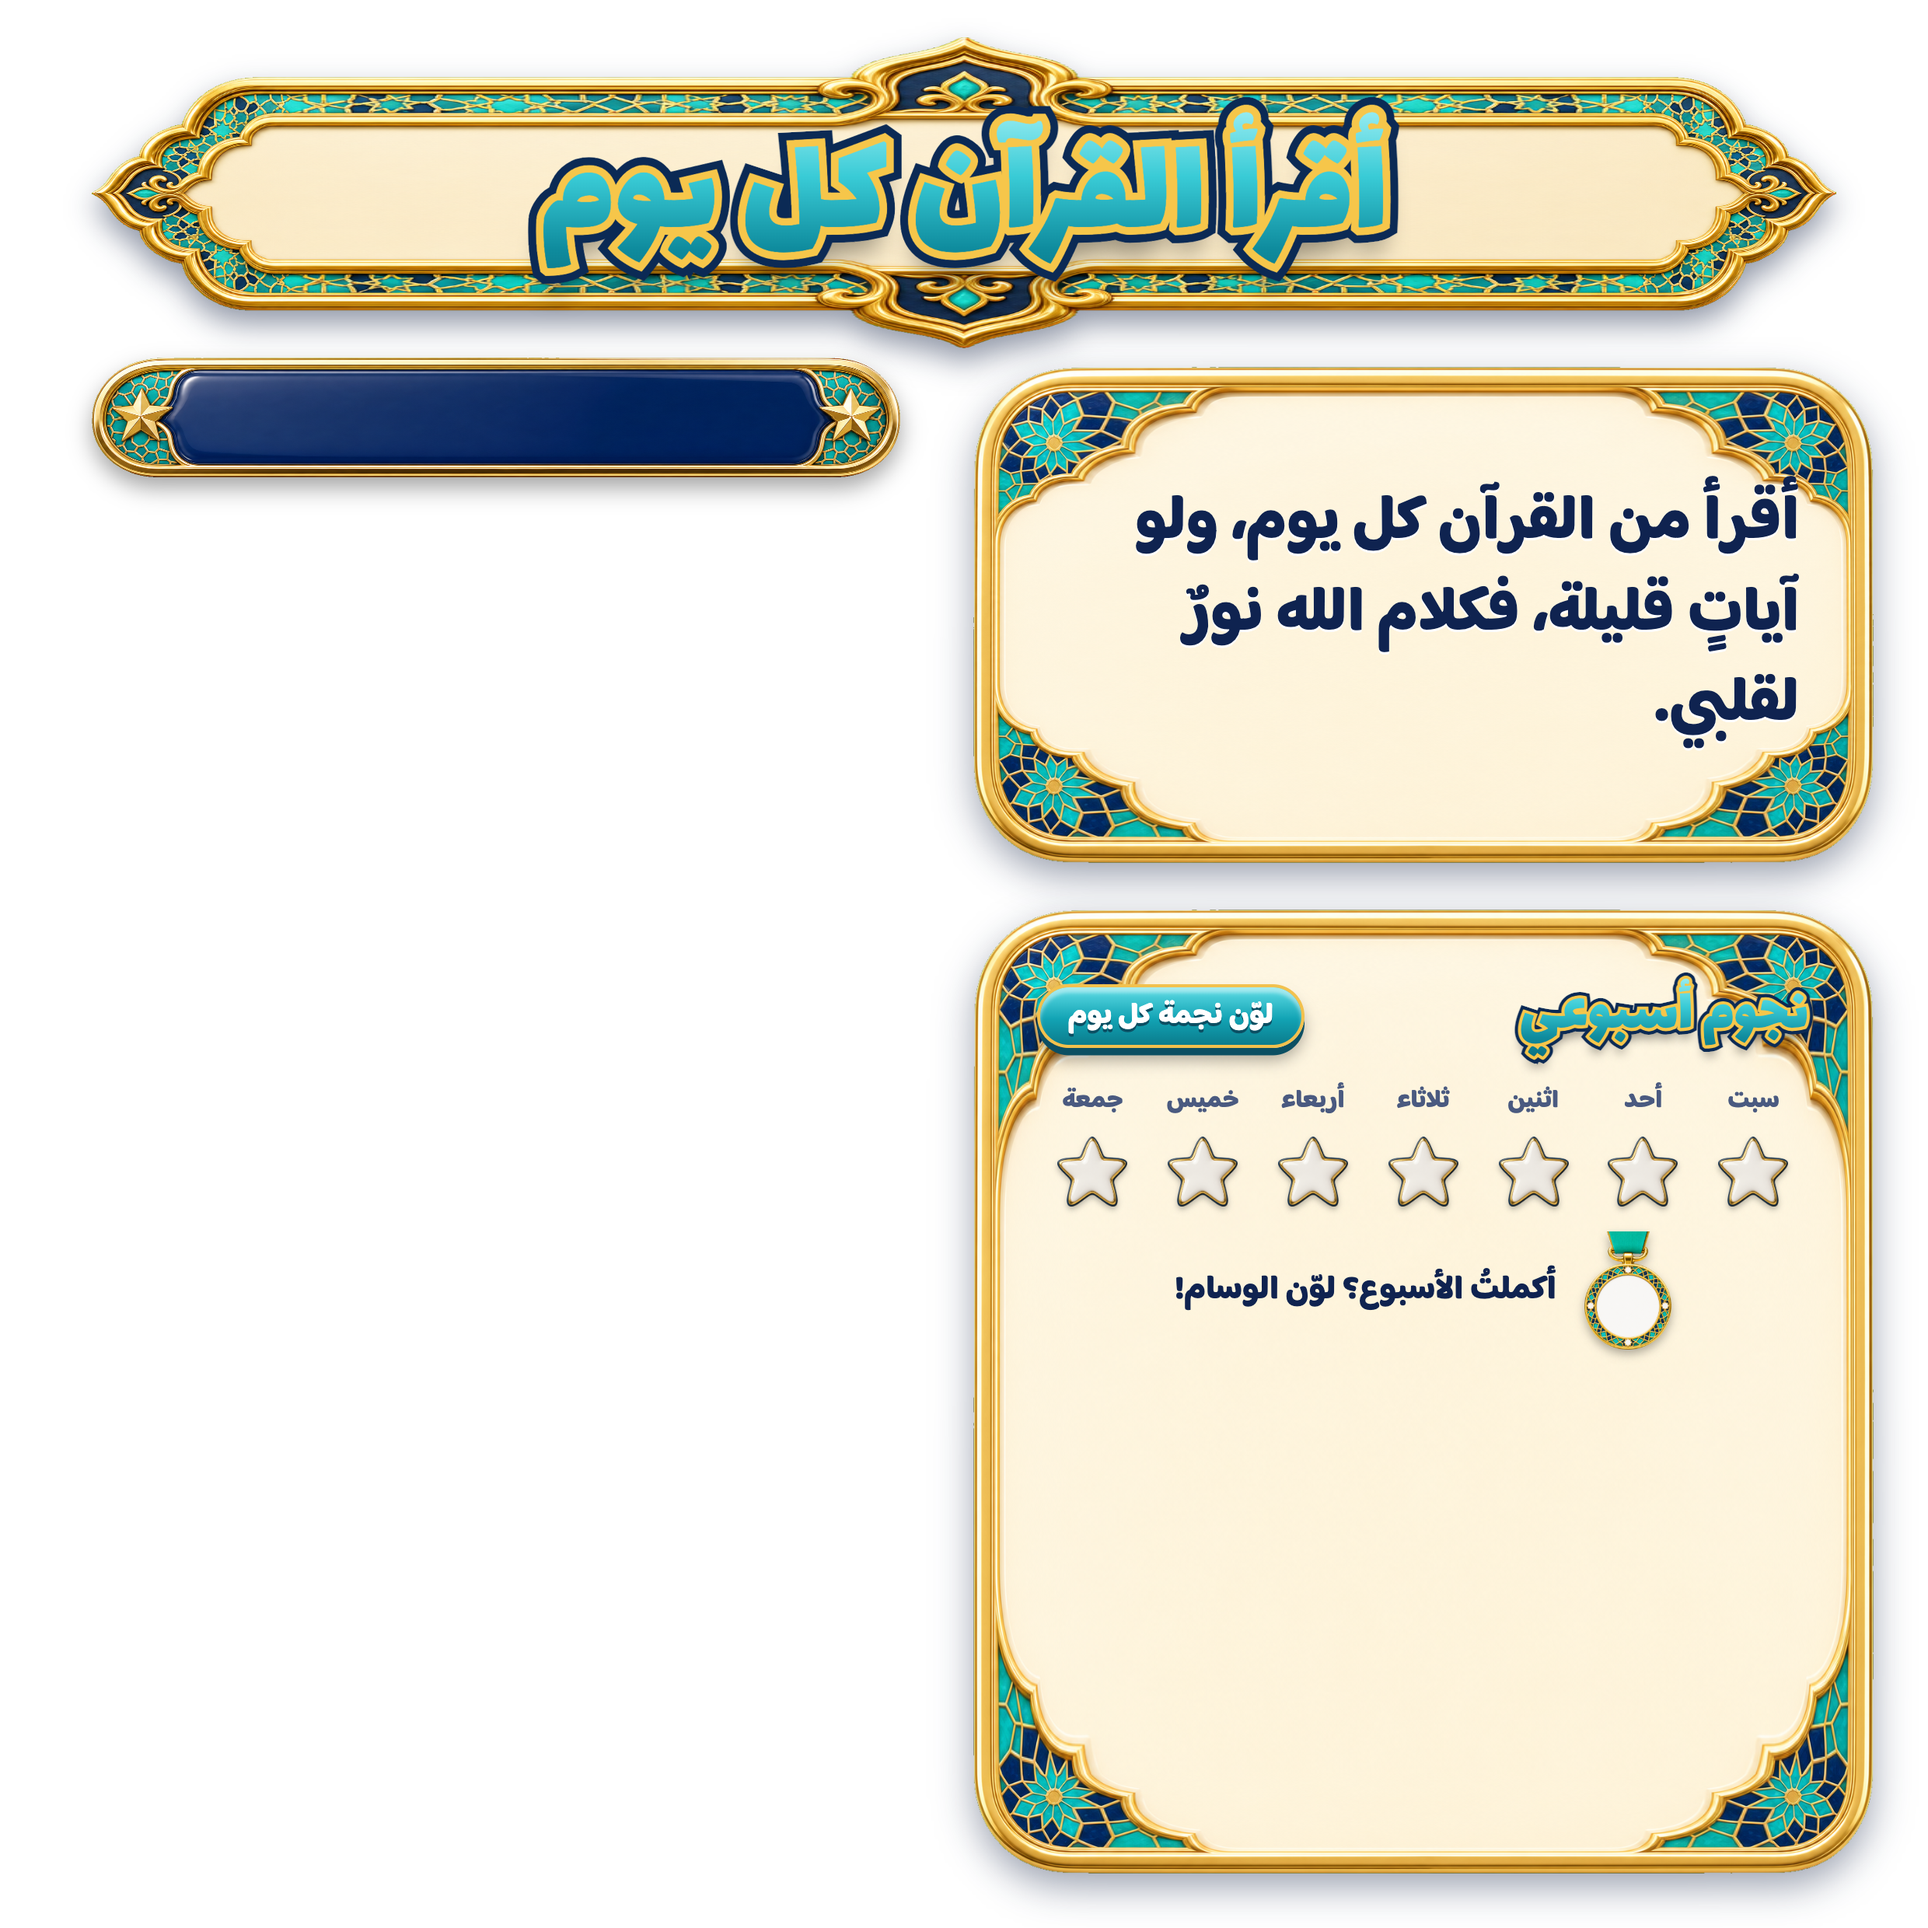
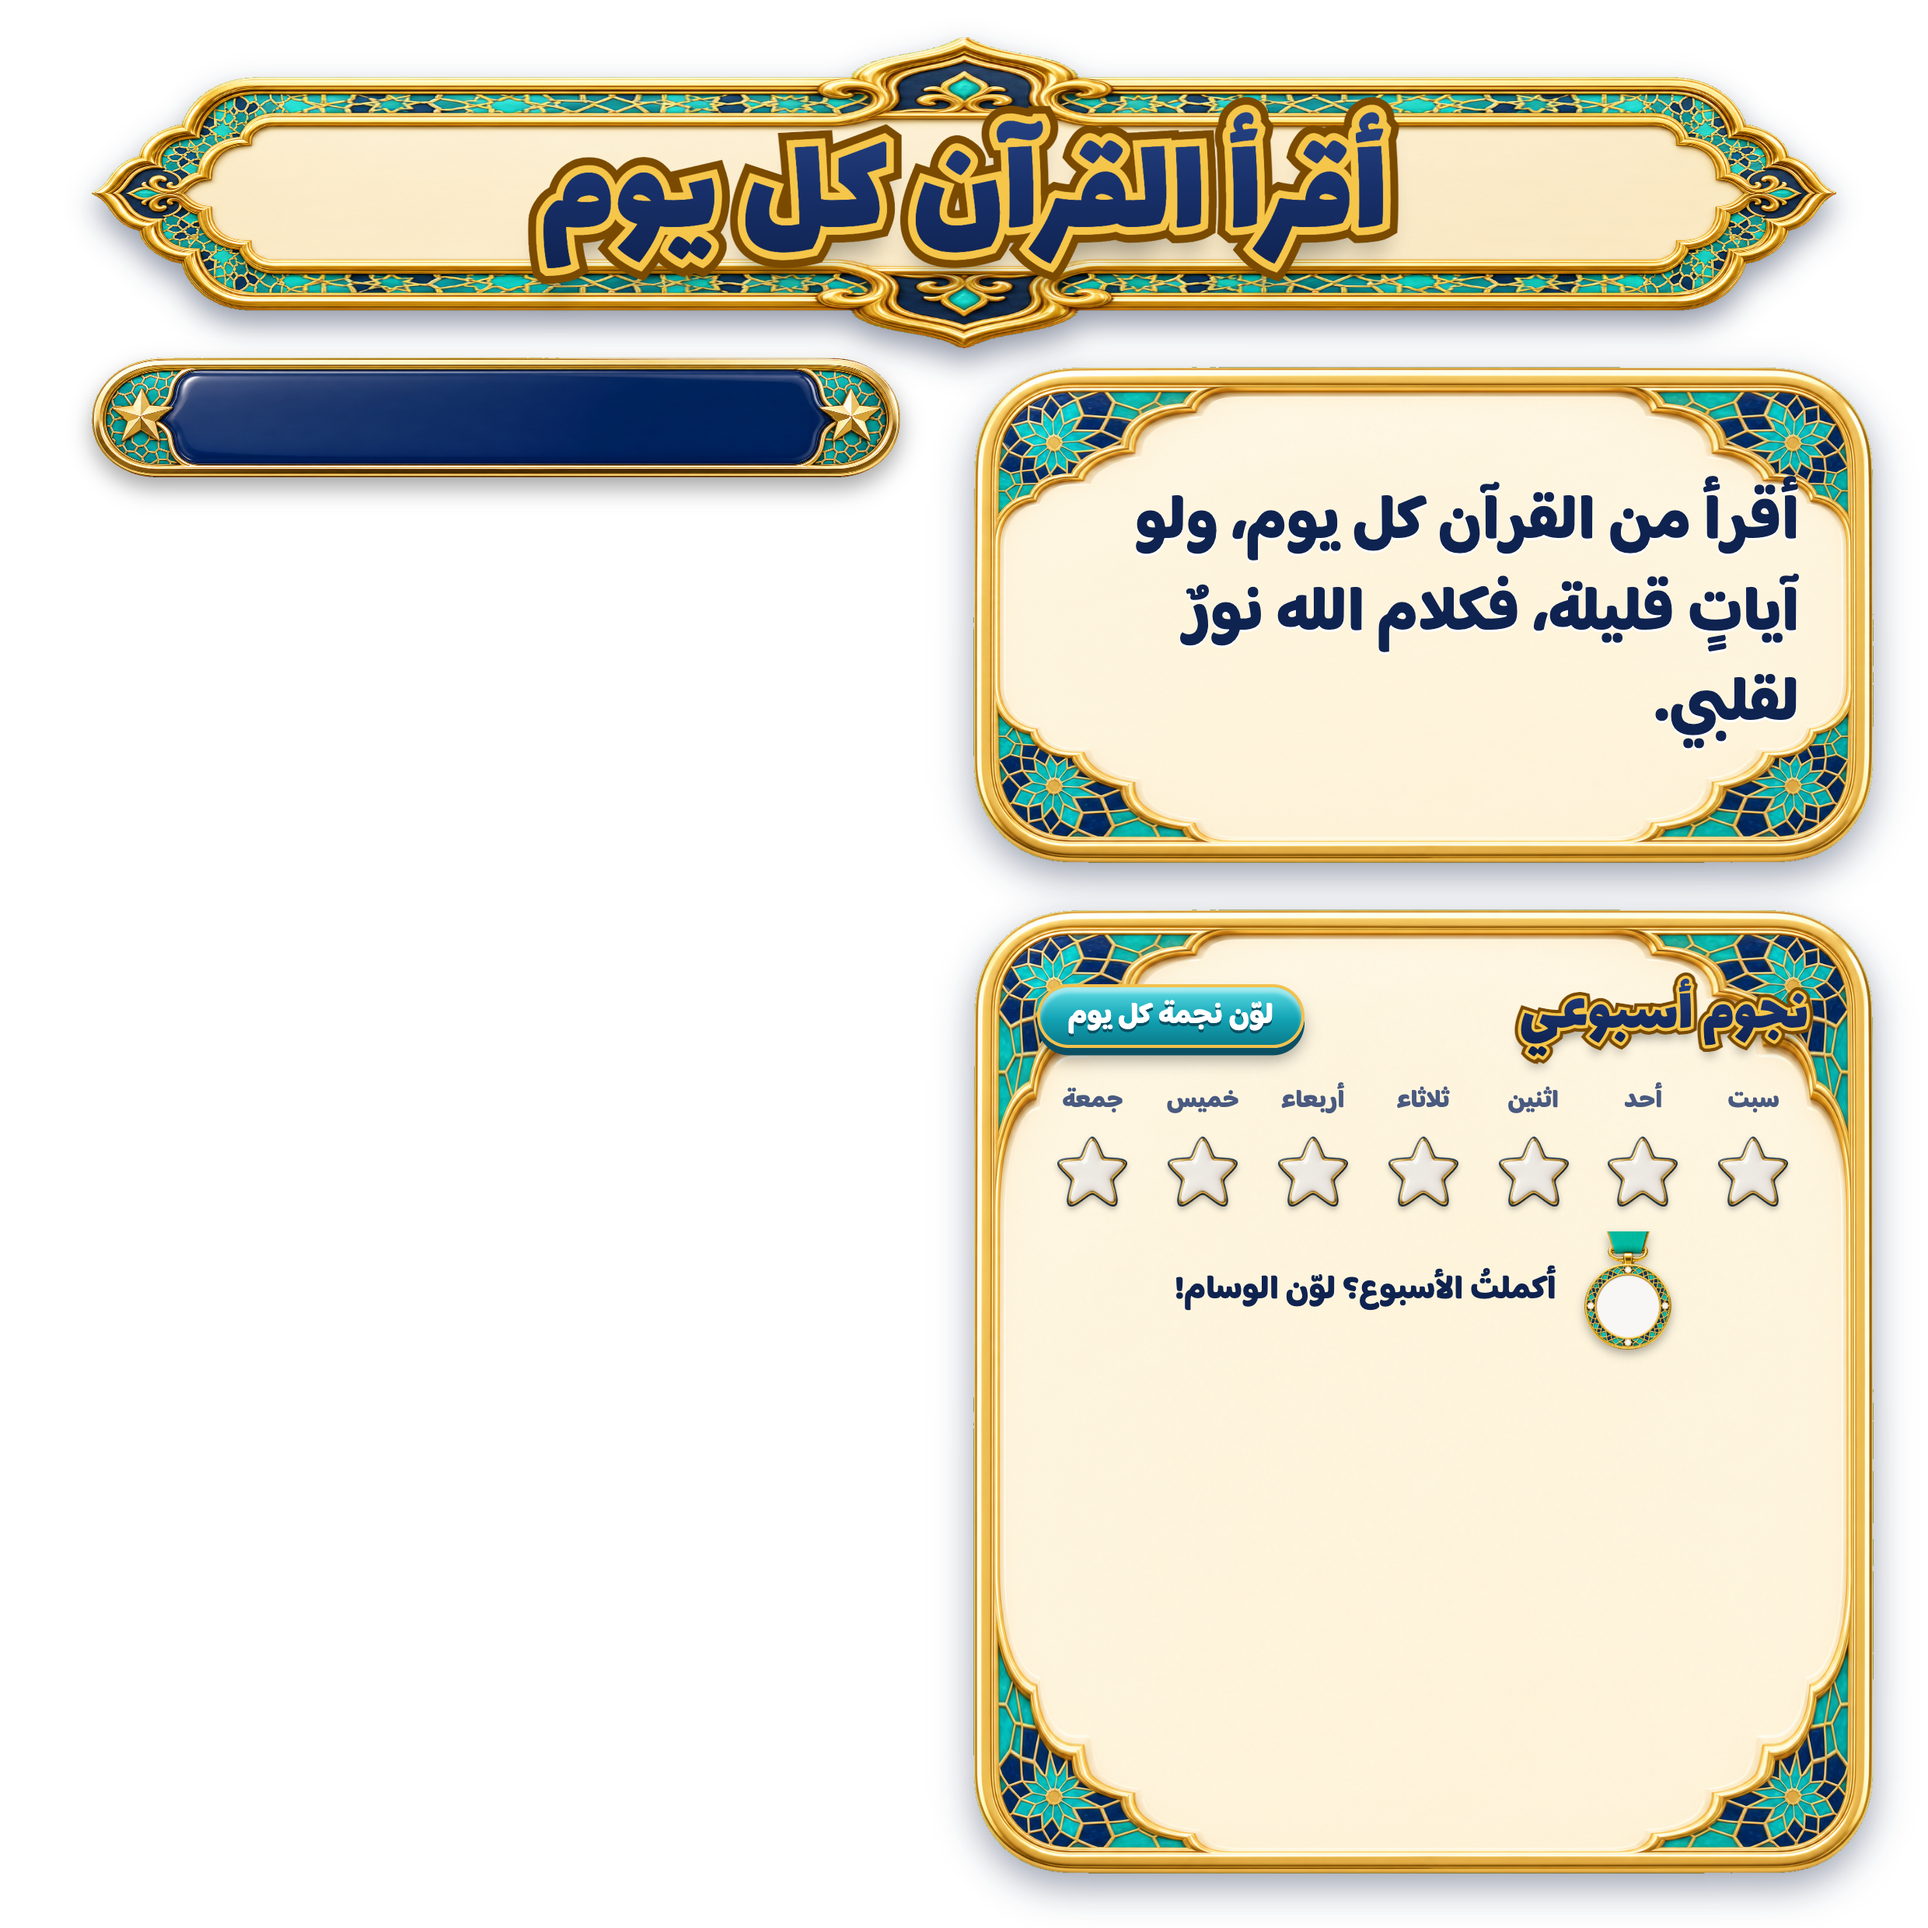
High-contrast navy 3D lettering, roomier cover subtitle

Changed region(s): [[0.2794, 0.031, 0.7452, 0.1552], [0.7762, 0.4968, 0.9315, 0.5589]]

diff --git a/design/nahjali-v1/pages.html b/design/nahjali-v1/pages.html
@@ -28,16 +28,16 @@
   /* 3D lettering in the logo style: turquoise face, gold rim, white edge, navy depth and soft shadow */
   .t3d { position: relative; display: inline-block; isolation: isolate; font-family: "Lalezar"; white-space: nowrap; }
   .t3d::before, .t3d::after { content: attr(data-text); position: absolute; inset: 0; }
-  .t3d::before { z-index: -2; color: #0b2a55; -webkit-text-stroke: .22em #0b2a55;
-    text-shadow: 0 .025em 0 #0b2a55, 0 .05em 0 #0b2a55, 0 .075em 0 #0b2a55, 0 .1em 0 #0b2a55, 0 .18em .18em rgba(0, 0, 0, .4); }
+  .t3d::before { z-index: -2; color: #7a4a00; -webkit-text-stroke: .22em #7a4a00;
+    text-shadow: 0 .025em 0 #7a4a00, 0 .05em 0 #6a3f00, 0 .075em 0 #5a3500, 0 .1em 0 #4a2c00, 0 .18em .18em rgba(0, 0, 0, .35); }
   .t3d::after { z-index: -1; color: #f6c64a; -webkit-text-stroke: .11em #f6c64a; }
   .t3d .face { position: relative; z-index: 1; color: transparent;
-    background: linear-gradient(180deg, #b6f7fa 0%, #39cbd6 40%, #0f8c9e 72%, #0a6878 100%); -webkit-background-clip: text; background-clip: text; }
+    background: linear-gradient(180deg, #2c4a8c 0%, #18306a 45%, #0b1d45 100%); -webkit-background-clip: text; background-clip: text; }
   .t3d.gold .face { background: linear-gradient(180deg, #fff3b8 0%, #ffd34d 40%, #e0a10e 72%, #b87a06 100%); -webkit-background-clip: text; background-clip: text; }
   .t3d.gold::after { color: #fff; -webkit-text-stroke: .1em #fff; }
 
   .line { font-size: 6.8rem; font-weight: 800; line-height: 1.45; color: #0f2350; text-shadow: 0 .25rem 0 #fff; }
-  .quote { font-family: "Amiri", serif; font-size: 4.6rem; line-height: 1.75; color: #0b6a78; text-align: center; font-weight: 700; }
+  .quote { font-family: "Amiri", serif; font-size: 4.6rem; line-height: 1.75; color: #0a4f5a; text-align: center; font-weight: 700; }
   .quote.small { font-size: 3.5rem; line-height: 1.7; text-align: justify; font-weight: 400; }
   .quote .mark { color: #d99a0b; font-size: 1.2em; }
 
@@ -115,11 +115,11 @@ const PAGES = [
   // 1 — cover
   {
     scene: 'shrine-day',
-    slots: [{ pose: 'happy', x: 66, y: 98, w: 78, h: 108 }],
+    slots: [{ pose: 'happy', x: 68, y: 112, w: 74, h: 96 }],
     texts: [{ value: 'كتيب {name}', font: 'display', color: '#14234a', effect: '3d', x: 10, y: 62, w: 190, h: 26 }],
     html: `
       <img class="abs" src="../../public/brand/logo.png" style="left:79rem;top:4rem;width:52rem">
-      ${box(45, 88, 120, 13, 'ribbon', 'رحلتي مع العادات الطيبة', 'font-size:7rem;border-width:.8rem')}
+      ${box(35, 88, 140, 22, 'ribbon', t3d('رحلتي مع العادات الطيبة'), 'font-size:8.5rem')}
     `,
   },
   // 2 — prayers

diff --git a/config/scenes.ts b/config/scenes.ts
@@ -10,8 +10,8 @@ export const SCENES: Record<string, string> = {
   "shrine-day": `The marble courtyard of ${SHRINE}, bright sunny golden morning, soft clouds, white doves in the sky.`,
   "shrine-dawn": `The marble courtyard of ${SHRINE} at dawn, soft pink and golden first light, gentle glow, a few stars fading, peaceful and hopeful.`,
   "shrine-night": `${SHRINE} at night, glowing golden lights, deep navy starry sky with a crescent moon, magical and serene.`,
-  "prayer-room": `A cozy, clean home prayer corner: a beautiful prayer rug on the floor with a small round clay prayer tablet (turbah) on it, a wooden shelf with a Quran and prayer beads (tasbih), a window showing a golden dome in the distance, warm daylight.`,
-  "prayer-room-night": `The same cozy home prayer corner at night: prayer rug with a small clay turbah, a soft warm lamp glowing, a window showing a starry sky and a crescent moon, calm and spiritual.`,
+  "prayer-room": `A cozy, clean home prayer corner: a beautiful prayer rug on the floor with a small round clay prayer tablet (turbah) on it, a wooden shelf with a Quran and prayer beads (tasbih), a window showing, in the distance, the golden dome and the two golden minarets of the holy shrine of Imam Ali in Najaf (NOT the Dome of the Rock), warm daylight.`,
+  "prayer-room-night": `The same cozy home prayer corner at night: prayer rug with a small clay turbah, a soft warm lamp glowing, a window showing a starry sky with a crescent moon over the glowing golden dome and two golden minarets of the holy shrine of Imam Ali in Najaf (NOT the Dome of the Rock), calm and spiritual.`,
   "quran-nook": `A warm reading nook at home: a carved wooden Quran stand (rahl) holding an open Quran on a soft carpet, floor cushions, a lantern, bookshelves, soft sunlight through a window with Islamic arch shape.`,
   "bedroom-morning": `A bright tidy child's bedroom in the morning: a neatly made bed with colorful blanket, a small bathroom door ajar showing a sink with a toothbrush cup, sunlight and curtains, cheerful.`,
   "bedroom-night": `The same child's bedroom at night: cozy bed with blanket and pillow, a glowing night lamp, window with a big moon and stars, a wall clock, sleepy calm blue and gold tones.`,

diff --git a/src/lib/compose.ts b/src/lib/compose.ts
@@ -114,8 +114,8 @@ function loadFont(kind: TemplateText["font"]): Promise<HbFont> {
 }
 
 const EFFECTS = {
-  /** Logo-style 3D lettering: turquoise face, gold rim, navy depth (matches the page titles) */
-  "3d": { stops: ["#a8f4f7", "#2cc3cf", "#0f8c9e", "#0a6878"], rim: "#f6c64a", depth: "#0b2a55" },
+  /** 3D lettering (matches the page titles): navy face, gold rim, white edge, bronze depth — high contrast */
+  "3d": { stops: ["#2c4a8c", "#18306a", "#0b1d45"], rim: "#f6c64a", depth: "#6a3f00" },
   /** Gold lettering for dark plates (name tags) */
   gold: { stops: ["#fff3b8", "#ffd34d", "#e0a10e", "#b87a06"], rim: null, depth: null },
 } as const;
